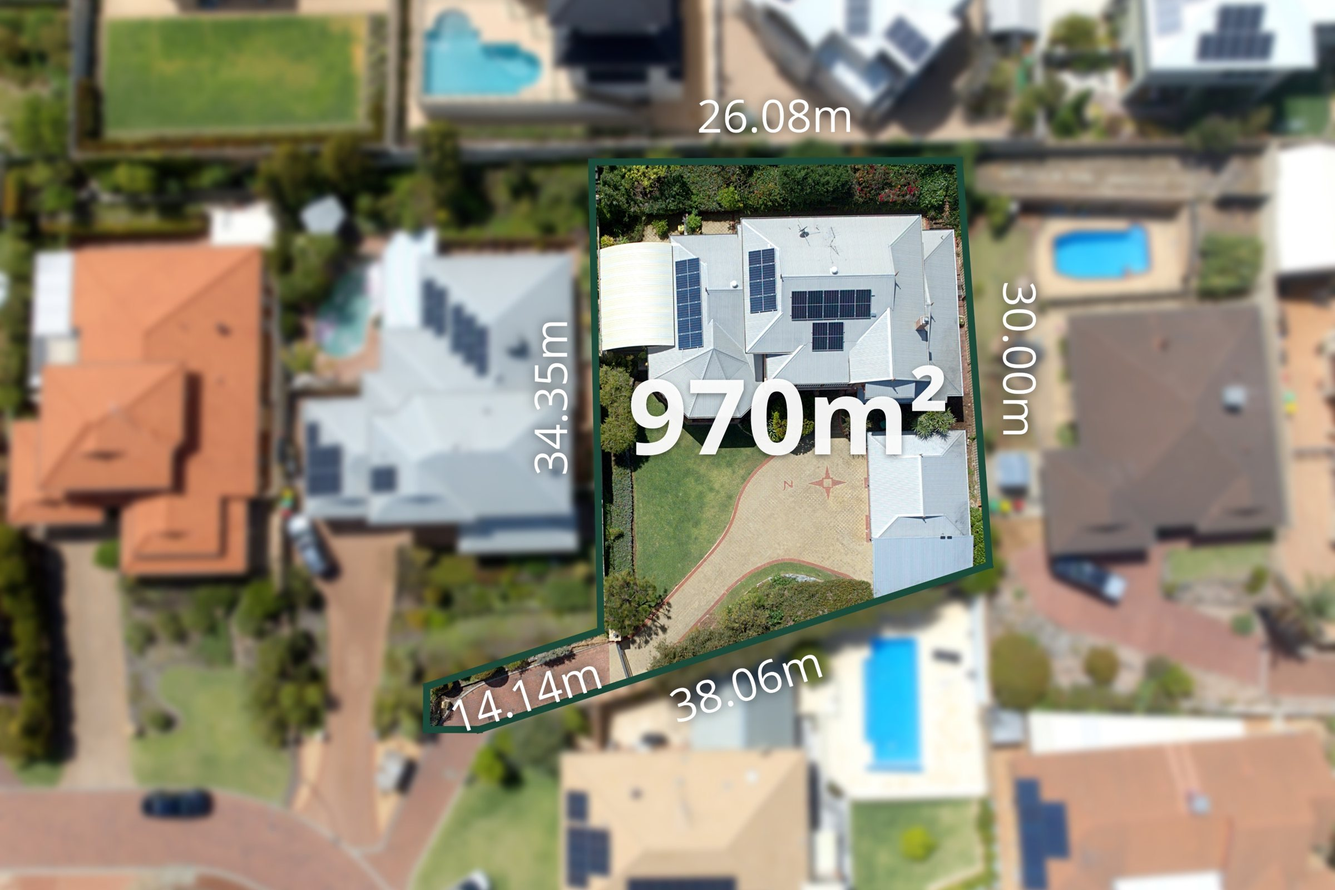
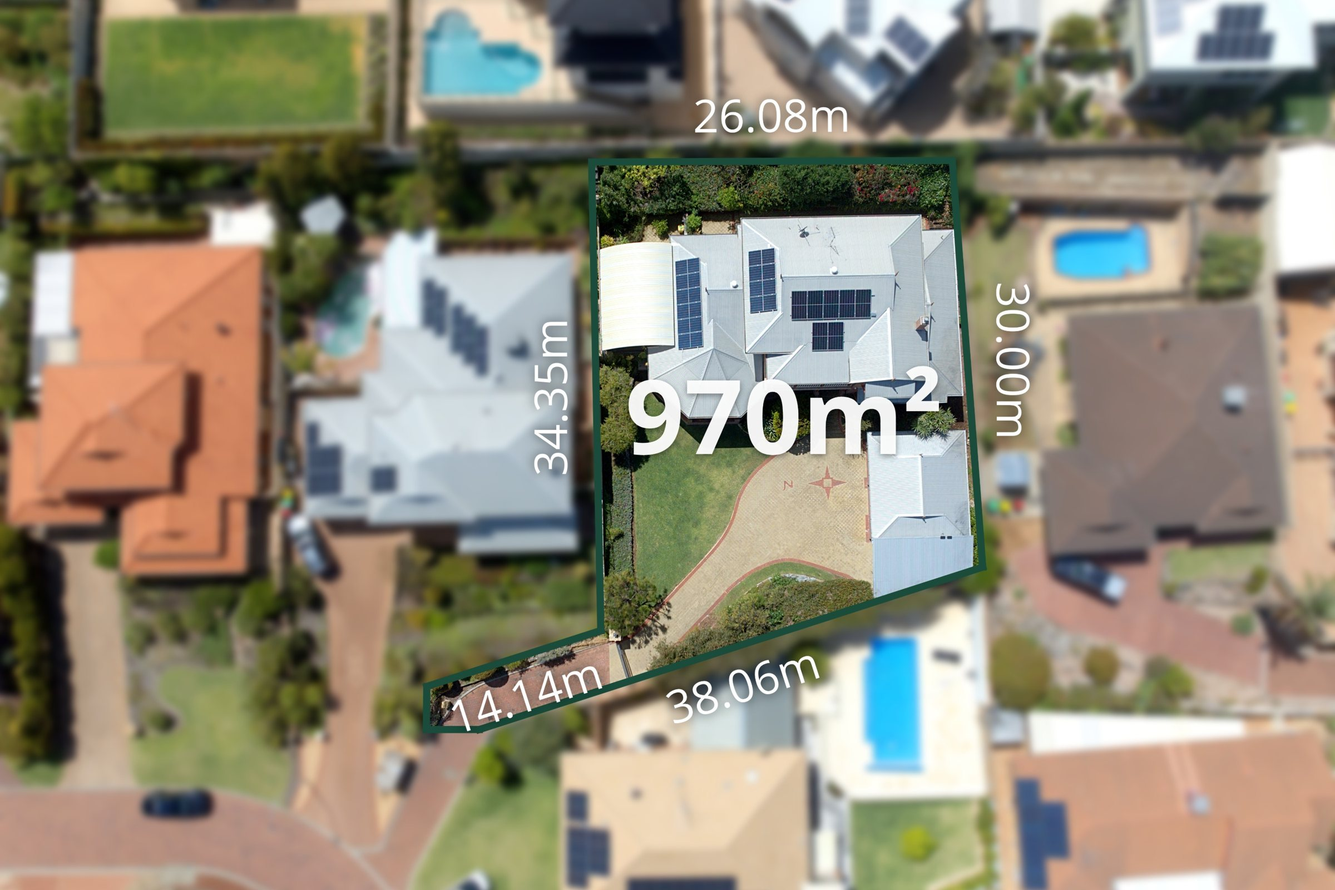
Aerials 31 Oct: 8 Challenger Rise fence fix (independent check), second top-down dropped
Claude-Session: https://claude.ai/code/session_01A5qGg2LnJXxgSHoMQFvEEG

Changed region(s): [[0.4688, 0.1875, 0.7812, 0.6562], [0.5, 0.0938, 0.6562, 0.1562], [0.5, 0.7188, 0.625, 0.8125]]

diff --git a/aerials/31-oct-2026/index.html b/aerials/31-oct-2026/index.html
@@ -5,4 +5,4 @@ body{margin:0;background:var(--bg);color:var(--fg);font:15px/1.45 system-ui,-app
 header,section{max-width:1400px;margin:auto;padding:18px 16px}h1{font-size:20px;margin:0}h2{font-size:17px;margin:0}header p,section p{color:var(--mut);margin:4px 0 0}
 .ed{margin-left:10px;color:var(--acc);font-weight:600;text-decoration:none}a{color:var(--acc)}
 .chk{margin-top:10px}.chk summary{cursor:pointer;color:var(--mut);font-weight:600}.chk iframe{width:100%;height:420px;border:0;border-radius:6px;margin-top:6px;background:#111}.g{display:grid;grid-template-columns:repeat(auto-fill,minmax(280px,1fr));gap:8px;margin-top:10px}.g img{width:100%;display:block;border-radius:4px}</style></head>
-<body><header><h1>Drone edits — Sat 31 Oct 2026</h1><p>Tap a photo for full size. <b>Edit</b> opens the job in the <a href="/pins/">editor</a> with all its pins and settings.</p></header><section><h2>8 Challenger Rise, Coogee WA 6166</h2><p>Megan Topham · Belle Property · 10 photos (top-downs first) <a class="ed" href="/pins/?open=31-oct-2026/8_challenger_rise">Edit</a><a class="ed" href="8_challenger_rise/check.html" target="_blank">Check map</a></p><div class="g"><a href="8_challenger_rise/DJI_20261031133449_0382_D.jpg?v=1793579115" target="_blank"><img loading="lazy" src="8_challenger_rise/t/DJI_20261031133449_0382_D.jpg?v=1793579115" alt=""></a><a href="8_challenger_rise/DJI_20261031133437_0381_D.jpg?v=1793579115" target="_blank"><img loading="lazy" src="8_challenger_rise/t/DJI_20261031133437_0381_D.jpg?v=1793579115" alt=""></a><a href="8_challenger_rise/DJI_20261031133533_0383_D.jpg?v=1793579115" target="_blank"><img loading="lazy" src="8_challenger_rise/t/DJI_20261031133533_0383_D.jpg?v=1793579115" alt=""></a><a href="8_challenger_rise/DJI_20261031133556_0384_D.jpg?v=1793579115" target="_blank"><img loading="lazy" src="8_challenger_rise/t/DJI_20261031133556_0384_D.jpg?v=1793579115" alt=""></a><a href="8_challenger_rise/DJI_20261031133609_0385_D.jpg?v=1793579115" target="_blank"><img loading="lazy" src="8_challenger_rise/t/DJI_20261031133609_0385_D.jpg?v=1793579115" alt=""></a><a href="8_challenger_rise/DJI_20261031133640_0386_D.jpg?v=1793579115" target="_blank"><img loading="lazy" src="8_challenger_rise/t/DJI_20261031133640_0386_D.jpg?v=1793579115" alt=""></a><a href="8_challenger_rise/DJI_20261031133713_0388_D.jpg?v=1793579115" target="_blank"><img loading="lazy" src="8_challenger_rise/t/DJI_20261031133713_0388_D.jpg?v=1793579115" alt=""></a><a href="8_challenger_rise/DJI_20261031133735_0389_D.jpg?v=1793579115" target="_blank"><img loading="lazy" src="8_challenger_rise/t/DJI_20261031133735_0389_D.jpg?v=1793579115" alt=""></a><a href="8_challenger_rise/DJI_20261031133749_0390_D.jpg?v=1793579115" target="_blank"><img loading="lazy" src="8_challenger_rise/t/DJI_20261031133749_0390_D.jpg?v=1793579115" alt=""></a><a href="8_challenger_rise/DJI_20261031133902_0392_D.jpg?v=1793579115" target="_blank"><img loading="lazy" src="8_challenger_rise/t/DJI_20261031133902_0392_D.jpg?v=1793579115" alt=""></a></div><details class="chk" open><summary>Quick check — boundary + 10 pinned places</summary><iframe loading="lazy" src="8_challenger_rise/check.html?v=1793579118" title="Boundary and places check"></iframe></details></section><script src="../dl.js"></script></body></html>
+<body><header><h1>Drone edits — Sat 31 Oct 2026</h1><p>Tap a photo for full size. <b>Edit</b> opens the job in the <a href="/pins/">editor</a> with all its pins and settings.</p></header><section><h2>8 Challenger Rise, Coogee WA 6166</h2><p>Megan Topham · Belle Property · 9 photos (top-down first) <a class="ed" href="/pins/?open=31-oct-2026/8_challenger_rise">Edit</a><a class="ed" href="8_challenger_rise/check.html" target="_blank">Check map</a></p><div class="g"><a href="8_challenger_rise/DJI_20261031133449_0382_D.jpg?v=1793579534" target="_blank"><img loading="lazy" src="8_challenger_rise/t/DJI_20261031133449_0382_D.jpg?v=1793579534" alt=""></a><a href="8_challenger_rise/DJI_20261031133533_0383_D.jpg?v=1793579534" target="_blank"><img loading="lazy" src="8_challenger_rise/t/DJI_20261031133533_0383_D.jpg?v=1793579534" alt=""></a><a href="8_challenger_rise/DJI_20261031133556_0384_D.jpg?v=1793579534" target="_blank"><img loading="lazy" src="8_challenger_rise/t/DJI_20261031133556_0384_D.jpg?v=1793579534" alt=""></a><a href="8_challenger_rise/DJI_20261031133609_0385_D.jpg?v=1793579534" target="_blank"><img loading="lazy" src="8_challenger_rise/t/DJI_20261031133609_0385_D.jpg?v=1793579534" alt=""></a><a href="8_challenger_rise/DJI_20261031133640_0386_D.jpg?v=1793579534" target="_blank"><img loading="lazy" src="8_challenger_rise/t/DJI_20261031133640_0386_D.jpg?v=1793579534" alt=""></a><a href="8_challenger_rise/DJI_20261031133713_0388_D.jpg?v=1793579535" target="_blank"><img loading="lazy" src="8_challenger_rise/t/DJI_20261031133713_0388_D.jpg?v=1793579535" alt=""></a><a href="8_challenger_rise/DJI_20261031133735_0389_D.jpg?v=1793579535" target="_blank"><img loading="lazy" src="8_challenger_rise/t/DJI_20261031133735_0389_D.jpg?v=1793579535" alt=""></a><a href="8_challenger_rise/DJI_20261031133749_0390_D.jpg?v=1793579535" target="_blank"><img loading="lazy" src="8_challenger_rise/t/DJI_20261031133749_0390_D.jpg?v=1793579535" alt=""></a><a href="8_challenger_rise/DJI_20261031133902_0392_D.jpg?v=1793579535" target="_blank"><img loading="lazy" src="8_challenger_rise/t/DJI_20261031133902_0392_D.jpg?v=1793579535" alt=""></a></div><details class="chk" open><summary>Quick check — boundary + 10 pinned places</summary><iframe loading="lazy" src="8_challenger_rise/check.html?v=1793579537" title="Boundary and places check"></iframe></details></section><script src="../dl.js"></script></body></html>

diff --git a/aerials/31-oct-2026/8_challenger_rise/check.html b/aerials/31-oct-2026/8_challenger_rise/check.html
@@ -7,7 +7,7 @@
 .p{position:relative}.m{position:absolute;inset:0}.h{position:absolute;z-index:500;left:8px;top:8px;background:rgba(0,0,0,.72);padding:4px 9px;border-radius:5px;font-weight:600}
 .leaflet-tooltip.t{background:rgba(30,32,36,.9);color:#fff;border:0;font-weight:600;box-shadow:none;padding:2px 6px}.leaflet-tooltip.t:before{display:none}</style></head>
 <body><div class="w"><div class="p"><div id="b" class="m"></div><div class="h">Boundary · 970 m²</div></div><div class="p"><div id="a" class="m"></div><div class="h">Pinned places (10)</div></div></div>
-<script>const D={"lat": -32.1246105, "lng": 115.7698218, "poly": [[-32.124374864613436, 115.76953441691523], [-32.12448542710756, 115.76957617144278], [-32.12447719649247, 115.76994231054493], [-32.124722623265654, 115.76994388681364], [-32.124735325672745, 115.76962589453984], [-32.1244088181587, 115.76950262760695], [-32.12437513533429, 115.76950259944213]], "places": [{"name": "Cockburn Central Station", "lat": -32.12528, "lng": 115.85834, "d": "8.3 km"}, {"name": "Coogee Primary School", "lat": -32.12654990000001, "lng": 115.77219659999999, "d": "310 m"}, {"name": "Stargate Shopping Centre", "lat": -32.1153166, "lng": 115.78321170000001, "d": "1.6 km"}, {"name": "Phoenix Shopping Centre", "lat": -32.0972575, "lng": 115.78413049999999, "d": "3.3 km"}, {"name": "Port Coogee Village Shopping Centre", "lat": -32.103181899999996, "lng": 115.76254030000001, "d": "2.5 km"}, {"name": "Coogee Beach", "lat": -32.1184837, "lng": 115.76168, "d": "1.0 km"}, {"name": "Woodman Point Regional Park", "lat": -32.134730399999995, "lng": 115.7379879, "d": "3.2 km"}, {"name": "Jervoise Bay Dog Beach", "lat": -32.1376327, "lng": 115.76127969999997, "d": "1.7 km"}, {"name": "Lake Coogee", "lat": -32.1382962, "lng": 115.77748899999999, "d": "1.7 km"}, {"name": "Boodjar Mooliny Reserve", "lat": -32.1259359, "lng": 115.77863, "d": "840 m"}]};
+<script>const D={"lat": -32.1246105, "lng": 115.7698218, "poly": [[-32.1243802, 115.76952776], [-32.12450135, 115.76957427], [-32.1244977, 115.7699384], [-32.1246786, 115.76994091], [-32.12473276, 115.76994137], [-32.12474642, 115.76962368], [-32.1244204, 115.76949857], [-32.12438034, 115.7694983]], "places": [{"name": "Cockburn Central Station", "lat": -32.12528, "lng": 115.85834, "d": "8.3 km"}, {"name": "Coogee Primary School", "lat": -32.12654990000001, "lng": 115.77219659999999, "d": "310 m"}, {"name": "Stargate Shopping Centre", "lat": -32.1153166, "lng": 115.78321170000001, "d": "1.6 km"}, {"name": "Phoenix Shopping Centre", "lat": -32.0972575, "lng": 115.78413049999999, "d": "3.3 km"}, {"name": "Port Coogee Village Shopping Centre", "lat": -32.103181899999996, "lng": 115.76254030000001, "d": "2.5 km"}, {"name": "Coogee Beach", "lat": -32.1184837, "lng": 115.76168, "d": "1.0 km"}, {"name": "Woodman Point Regional Park", "lat": -32.134730399999995, "lng": 115.7379879, "d": "3.2 km"}, {"name": "Jervoise Bay Dog Beach", "lat": -32.1376327, "lng": 115.76127969999997, "d": "1.7 km"}, {"name": "Lake Coogee", "lat": -32.13489, "lng": 115.7768, "d": "1.3 km"}, {"name": "Boodjar Mooliny Reserve", "lat": -32.1259359, "lng": 115.77863, "d": "840 m"}]};
 const T='https://server.arcgisonline.com/ArcGIS/rest/services/World_Imagery/MapServer/tile/{z}/{y}/{x}', O={maxZoom:21,maxNativeZoom:19,attribution:'Esri World Imagery'};
 const H=[D.lat,D.lng];
 const b=L.map('b',{zoomControl:false,attributionControl:false}); L.tileLayer(T,O).addTo(b);
